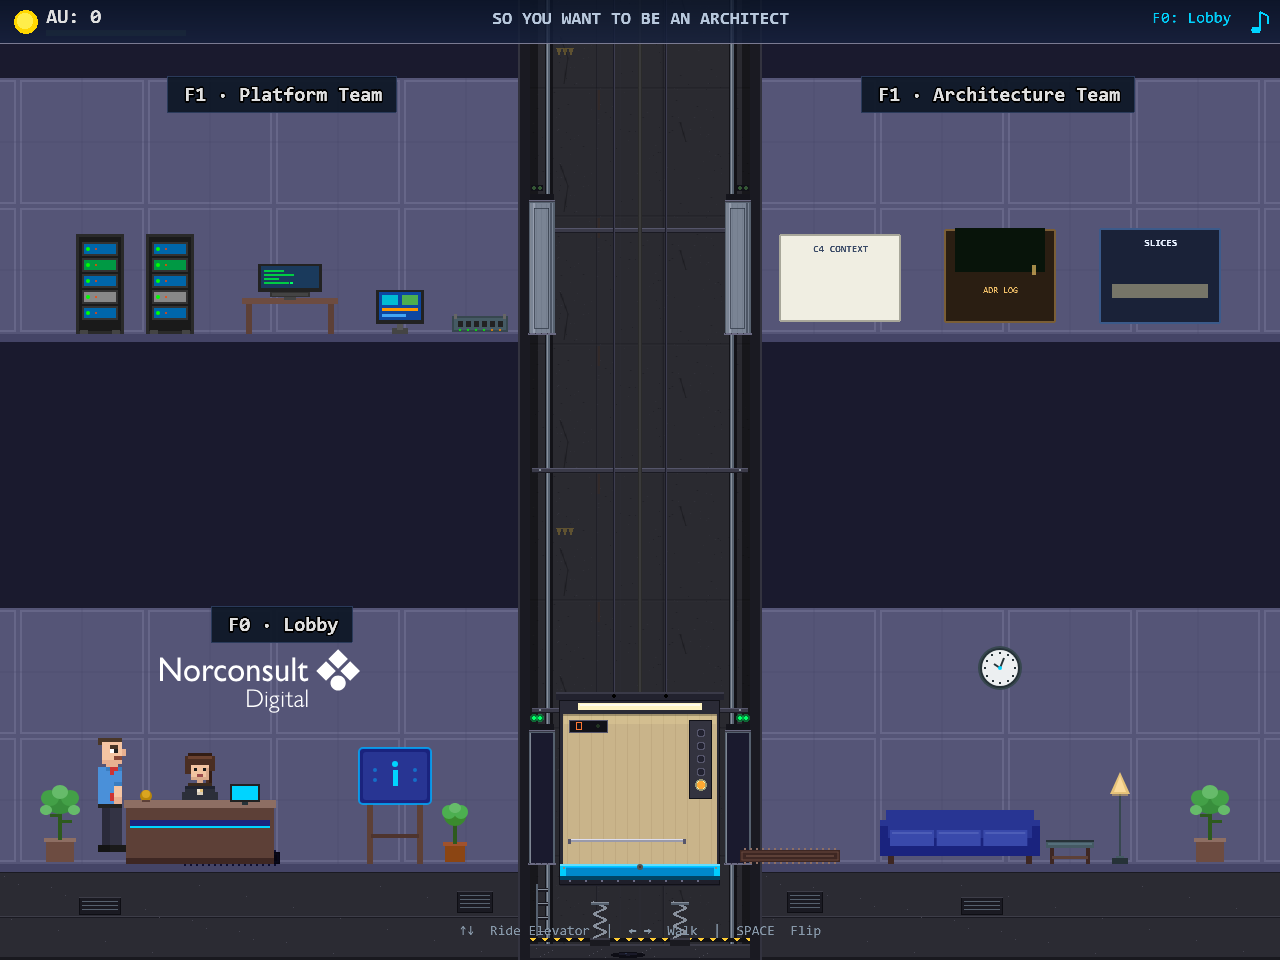
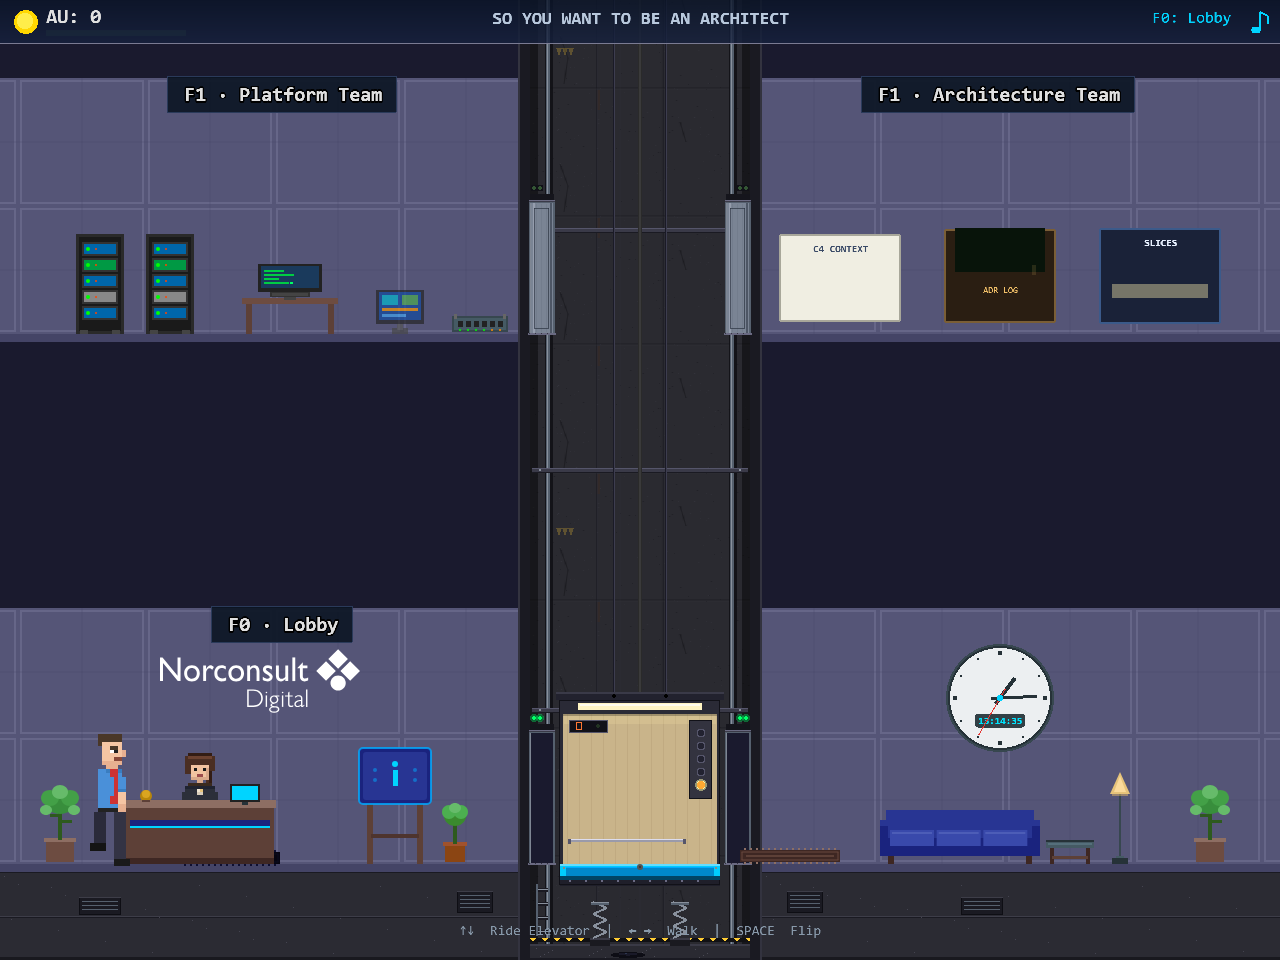
feat(lobby): live analog + digital wall clock in the elevator scene lobby
Replace the small static wall_clock sprite with a larger, live-updating
clock built at runtime in ElevatorSceneLayout.createLobbyClock:

- Analog face ~2.3x larger (radius 50 vs previous 22) with thicker hour
  markers at the cardinal positions.
- Hour, minute, and (red) second hands driven by the real wall-clock
  time; redrawn every second via a looping scene timer event that is
  removed on scene shutdown.
- Small cyan HH:MM:SS digital readout below the pivot on a dark plaque
  for a precise current-time readout.

Drop the now-unused procedural wall_clock texture and its generator,
and refresh docs/lobby.png to reflect the new clock.

Changed region(s): [[0.7188, 0.6562, 0.8438, 0.7812], [0.0625, 0.8125, 0.125, 0.9062], [0.2812, 0.2812, 0.3438, 0.3438]]

diff --git a/src/scenes/elevator/ElevatorSceneLayout.ts b/src/scenes/elevator/ElevatorSceneLayout.ts
@@ -836,13 +836,124 @@ export class ElevatorSceneLayout {
     scene.add.image(455, floorBottom - 32, 'plant_small').setDepth(3);
 
     // Right walkway — waiting area.
-    // Wall-mounted clock (anchored to lobbyY band).
-    scene.add.image(1000, lobbyY + 60, 'wall_clock').setDepth(2);
+    // Wall-mounted live clock (real time, analog face + second hand and a
+    // small digital HH:MM:SS readout below). Anchored to lobbyY band.
+    this.createLobbyClock(1000, lobbyY + 90, 50);
     scene.add.image(790, floorBottom - 8, 'welcome_mat').setDepth(4);
     scene.add.image(960, floorBottom - 30, 'sofa').setDepth(3);
     scene.add.image(1070, floorBottom - 14, 'coffee_table').setDepth(3);
     scene.add.image(1120, floorBottom - 48, 'floor_lamp').setDepth(3);
     scene.add.image(1210, floorBottom - 40, 'plant_tall').setDepth(3);
+  }
+
+  /**
+   * Build a live, real-time analog wall clock in the lobby waiting area.
+   * The static face (rim, dial, ticks, centre pin, digital readout frame)
+   * is drawn once. The hour/minute/second hands and the HH:MM:SS label are
+   * redrawn every second via a looping timer event. The timer is cleaned up
+   * automatically on scene shutdown.
+   *
+   * @param cx Centre x in world space
+   * @param cy Centre y in world space
+   * @param radius Face radius in pixels (outer rim sits at radius + 3)
+   */
+  private createLobbyClock(cx: number, cy: number, radius: number): void {
+    const scene = this.deps.scene;
+    const rimOuter = radius + 4;
+    const rimInner = radius + 2;
+
+    // --- Static face (drawn once) ---
+    const face = scene.add.graphics().setDepth(2);
+    // Outer rim
+    face.fillStyle(0x37474f);
+    face.fillCircle(cx, cy, rimOuter);
+    face.fillStyle(0x263238);
+    face.fillCircle(cx, cy, rimInner);
+    // Dial
+    face.fillStyle(0xeceff1);
+    face.fillCircle(cx, cy, radius);
+    // Hour ticks (12 chunky, with a thicker marker at 12/3/6/9)
+    face.fillStyle(0x263238);
+    for (let i = 0; i < 12; i++) {
+      const angle = (i / 12) * Math.PI * 2 - Math.PI / 2;
+      const tx = cx + Math.cos(angle) * (radius - 5);
+      const ty = cy + Math.sin(angle) * (radius - 5);
+      const size = i % 3 === 0 ? 4 : 2;
+      face.fillRect(Math.round(tx - size / 2), Math.round(ty - size / 2), size, size);
+    }
+
+    // Digital readout background (small plaque just above the 6 o'clock).
+    const plaqueW = radius * 1.0;
+    const plaqueH = 14;
+    const plaqueY = cy + radius * 0.45;
+    face.fillStyle(0x102027, 0.85);
+    face.fillRoundedRect(cx - plaqueW / 2, plaqueY - plaqueH / 2, plaqueW, plaqueH, 3);
+
+    // Digital HH:MM:SS text (updated each tick).
+    const digital = scene.add.text(cx, plaqueY, '', {
+      fontFamily: 'monospace',
+      fontSize: '10px',
+      color: '#00e5ff',
+      fontStyle: 'bold',
+    }).setOrigin(0.5).setDepth(3);
+
+    // Hands layer (above face, below centre pin).
+    const hands = scene.add.graphics().setDepth(3);
+
+    // Centre pin (drawn on top of hands so the pivot reads cleanly).
+    const pin = scene.add.graphics().setDepth(4);
+    pin.fillStyle(theme.color.ui.accent);
+    pin.fillCircle(cx, cy, Math.max(2, Math.round(radius * 0.06)));
+
+    // Hand lengths / widths scale with radius so the clock looks right at any size.
+    const hourLen = radius * 0.50;
+    const minuteLen = radius * 0.75;
+    const secondLen = radius * 0.85;
+    const hourTail = radius * 0.15;
+    const minuteTail = radius * 0.18;
+    const secondTail = radius * 0.22;
+    const hourW = Math.max(3, Math.round(radius * 0.08));
+    const minuteW = Math.max(2, Math.round(radius * 0.05));
+    const secondW = Math.max(1, Math.round(radius * 0.025));
+
+    const drawHand = (angle: number, length: number, tail: number, width: number, color: number) => {
+      const dx = Math.cos(angle);
+      const dy = Math.sin(angle);
+      hands.lineStyle(width, color, 1);
+      hands.beginPath();
+      hands.moveTo(cx - dx * tail, cy - dy * tail);
+      hands.lineTo(cx + dx * length, cy + dy * length);
+      hands.strokePath();
+    };
+
+    const render = (): void => {
+      const now = new Date();
+      const hh = now.getHours();
+      const mm = now.getMinutes();
+      const ss = now.getSeconds();
+
+      // -π/2 puts 0 at the top (12 o'clock). Hour hand drifts with minutes.
+      const secondAngle = (ss / 60) * Math.PI * 2 - Math.PI / 2;
+      const minuteAngle = ((mm + ss / 60) / 60) * Math.PI * 2 - Math.PI / 2;
+      const hourAngle = (((hh % 12) + mm / 60) / 12) * Math.PI * 2 - Math.PI / 2;
+
+      hands.clear();
+      drawHand(hourAngle, hourLen, hourTail, hourW, 0x263238);
+      drawHand(minuteAngle, minuteLen, minuteTail, minuteW, 0x263238);
+      drawHand(secondAngle, secondLen, secondTail, secondW, 0xe53935);
+
+      const pad = (n: number) => n.toString().padStart(2, '0');
+      digital.setText(`${pad(hh)}:${pad(mm)}:${pad(ss)}`);
+    };
+
+    render();
+    const timer = scene.time.addEvent({ delay: 1000, loop: true, callback: render });
+
+    // Tear down the timer on scene shutdown so it doesn't leak across
+    // scene restarts (EventBus-singleton-style hazard).
+    scene.events.once(Phaser.Scenes.Events.SHUTDOWN, () => {
+      timer.remove(false);
+    });
   }
 
   /**

diff --git a/src/systems/sprites/lobbyProps.ts b/src/systems/sprites/lobbyProps.ts
@@ -14,7 +14,8 @@ export function generateLobbyPropSprites(scene: Phaser.Scene): void {
   generateSofa(scene);
   generateCoffeeTable(scene);
   generateFloorLamp(scene);
-  generateWallClock(scene);
+  // Note: the lobby wall clock is a live analog+digital clock built at
+  // runtime in ElevatorSceneLayout.createLobbyClock rather than a sprite.
   generateWelcomeMat(scene);
 }
 
@@ -140,45 +141,6 @@ function generateFloorLamp(scene: Phaser.Scene): void {
   g.fillRect(4, 26, w - 8, 2);
 
   g.generateTexture('floor_lamp', w, h);
-  g.destroy();
-}
-
-function generateWallClock(scene: Phaser.Scene): void {
-  const g = scene.make.graphics({ x: 0, y: 0 }, false);
-  const w = 48, h = 48;
-
-  // Outer rim
-  g.fillStyle(0x37474f);
-  g.fillCircle(w / 2, h / 2, 22);
-  g.fillStyle(0x263238);
-  g.fillCircle(w / 2, h / 2, 20);
-  // Face
-  g.fillStyle(0xeceff1);
-  g.fillCircle(w / 2, h / 2, 18);
-  // Hour ticks
-  g.fillStyle(0x263238);
-  for (let i = 0; i < 12; i++) {
-    const angle = (i / 12) * Math.PI * 2;
-    const tx = w / 2 + Math.cos(angle) * 15;
-    const ty = h / 2 + Math.sin(angle) * 15;
-    g.fillRect(Math.round(tx) - 1, Math.round(ty) - 1, 2, 2);
-  }
-  // Hands — hour at ~10, minute at ~2
-  g.lineStyle(2, 0x263238, 1);
-  g.beginPath();
-  g.moveTo(w / 2, h / 2);
-  g.lineTo(w / 2 - 6, h / 2 - 4);
-  g.strokePath();
-  g.lineStyle(2, 0x263238, 1);
-  g.beginPath();
-  g.moveTo(w / 2, h / 2);
-  g.lineTo(w / 2 + 4, h / 2 - 10);
-  g.strokePath();
-  // Center pin
-  g.fillStyle(theme.color.ui.accent);
-  g.fillCircle(w / 2, h / 2, 2);
-
-  g.generateTexture('wall_clock', w, h);
   g.destroy();
 }
 
